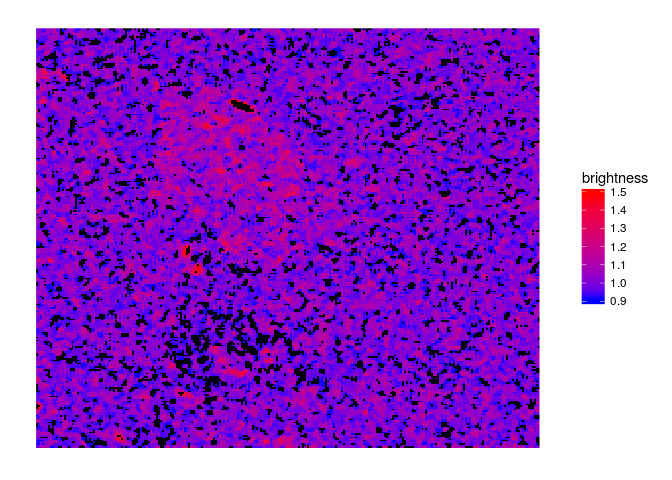
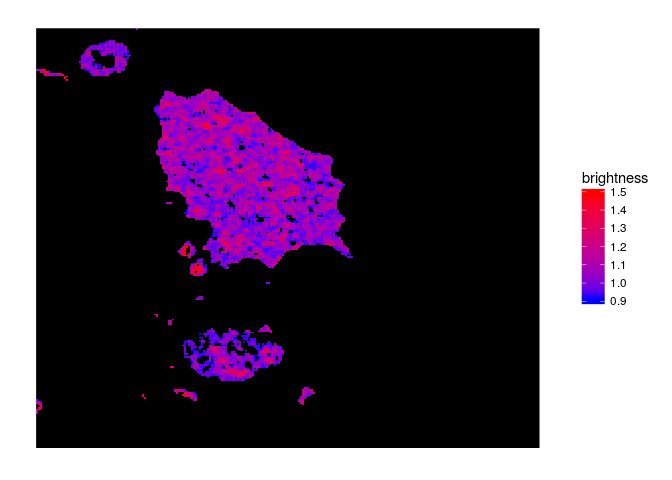
Improve ReadImageData to remove dependency on ImageMagick.

diff --git a/README.md b/README.md
@@ -21,10 +21,10 @@ biocLite("EBImage")
 If you get a message saying `Update all/some/none? [a/s/n]:`, type `a`. Then run
 
 ``` r
-devtools::install_github("rorynolan/filesstrings",
-                         auth_token = "e20de79c9f76474b1c2c94f018f71f4e898f9ca5")
+devtools::install_github("rorynolan/filesstrings")
+devtools::install_github("rorynolan/autothresholdr")
 devtools::install_github("rorynolan/nandb",
-                         auth_token = "e20de79c9f76474b1c2c94f018f71f4e898f9ca5",
+                         auth_token = "408d46a07a8fc44c6a97c0ccc0175154a3bb2864",
                          build_vignettes = TRUE)
 ```
 
@@ -32,11 +32,14 @@ Done.
 
 ### Updates
 
-To update the package, you just need
+To update the package, you just need to do the same thing:
 
 ``` r
 devtools::install_github("rorynolan/filesstrings")
-devtools::install_github("rorynolan/nandb")
+devtools::install_github("rorynolan/autothresholdr")
+devtools::install_github("rorynolan/nandb",
+                         auth_token = "408d46a07a8fc44c6a97c0ccc0175154a3bb2864",
+                         build_vignettes = TRUE)
 ```
 
 To check if you need an update, check if the package has been updated since you installed it. To check your current version, use `packageVersion("nandb")`. To check if there's a newer version, go to the github page \[github.com/rorynolan/filesstrings\] (you're probably there right now) and look for the version in the description file.
@@ -46,7 +49,7 @@ If you don't want to bother checking and you just want to make sure you have the
 Use
 ---
 
-For the lowdown on how to use this package, you should read the package vignette; however, here's a quick example. First load the libraries:
+For the lowdown on how to use this package, you should read the package vignette (using `vignette("nandb")`); however, here's a quick example. First load the libraries:
 
 ``` r
 library("nandb")
@@ -80,7 +83,7 @@ EBImage::display(EBImage::normalize(img[, , 1]), method = "raster")
 Now we can calculate the brightness image based on this image series, with an exponential filtering detrend with a time constant of (say) 10 frames via
 
 ``` r
-img_brightness <- Brightness(img, tau = 10)
+img_brightness <- Brightness(img, tau = 10, mst = "Huang")
 ```
 
 Now we can see the (median filtered) version of the output.
